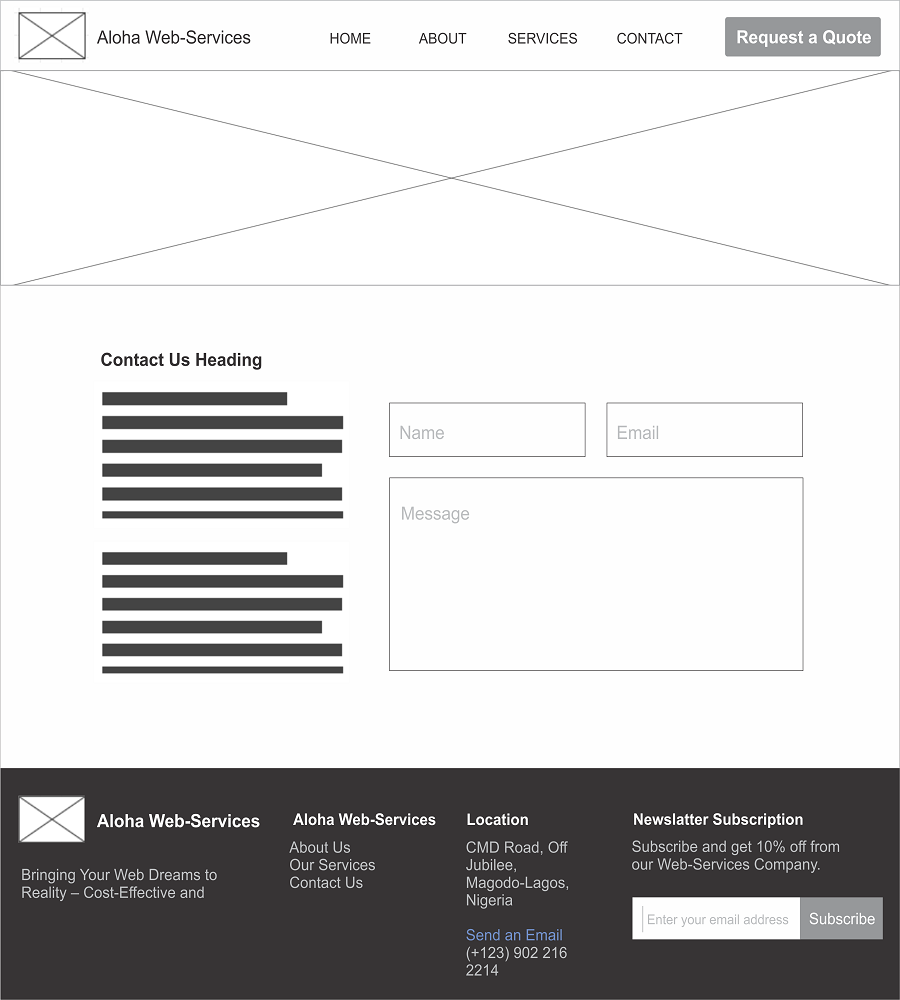
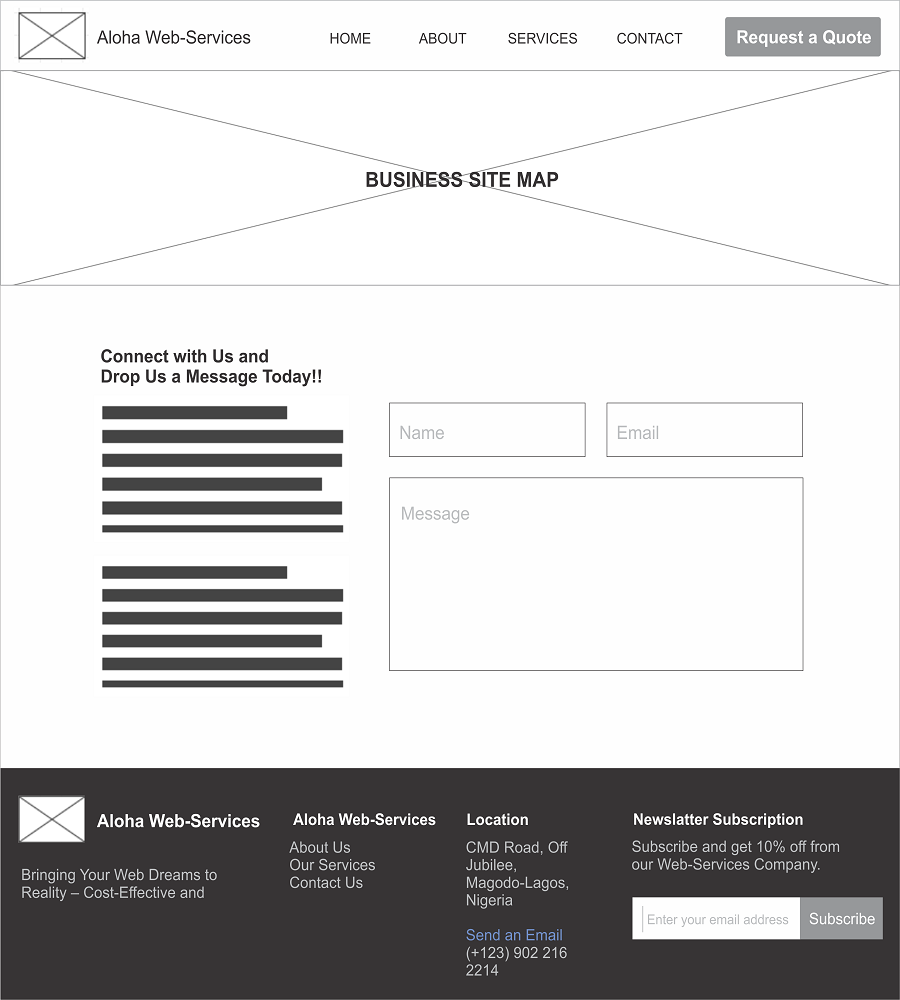
Added week_9

Changed region(s): [[0.0933, 0.341, 0.4044, 0.713], [0.4044, 0.155, 0.6222, 0.186]]

diff --git a/alohawebservices/site-plan.html b/alohawebservices/site-plan.html
@@ -437,6 +437,14 @@
             The individual service page, or service detail page, comprises three image slides and an explanatory message that outlines the specific services being provided.
         </p>
         <img src="images/Single-Services.png" alt="page 3 wireframe">
+
+
+        <h3>Contact</h3>
+        <p>
+            The contact us page features a user-friendly contact form for seamless communication. Alongside the form, a concise description of services is provided, ensuring visitors understand the offerings. Additionally, the contact page includes essential contact
+            details for easy reach, streamlining the process for potential clients to get in touch.
+        </p>
+        <img src="images/Contact.png" alt="page 3 wireframe">
     </main>
 </body>
 
@@ -464,6 +472,10 @@
 <img src="" alt="page 3 wireframe"> -->
 </main>
 </body>
+
+</html>
+
+</html>
 
 </html>
 
